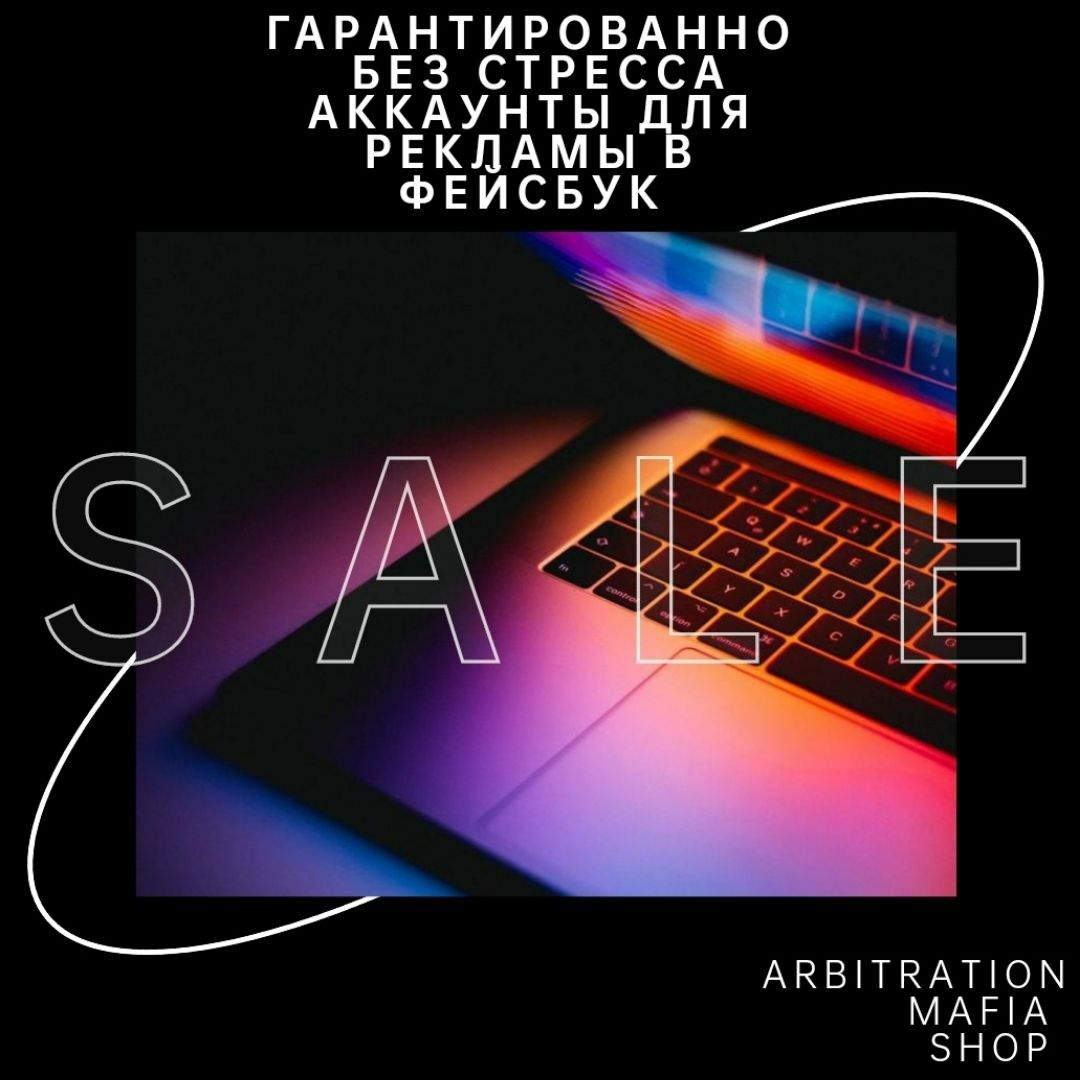
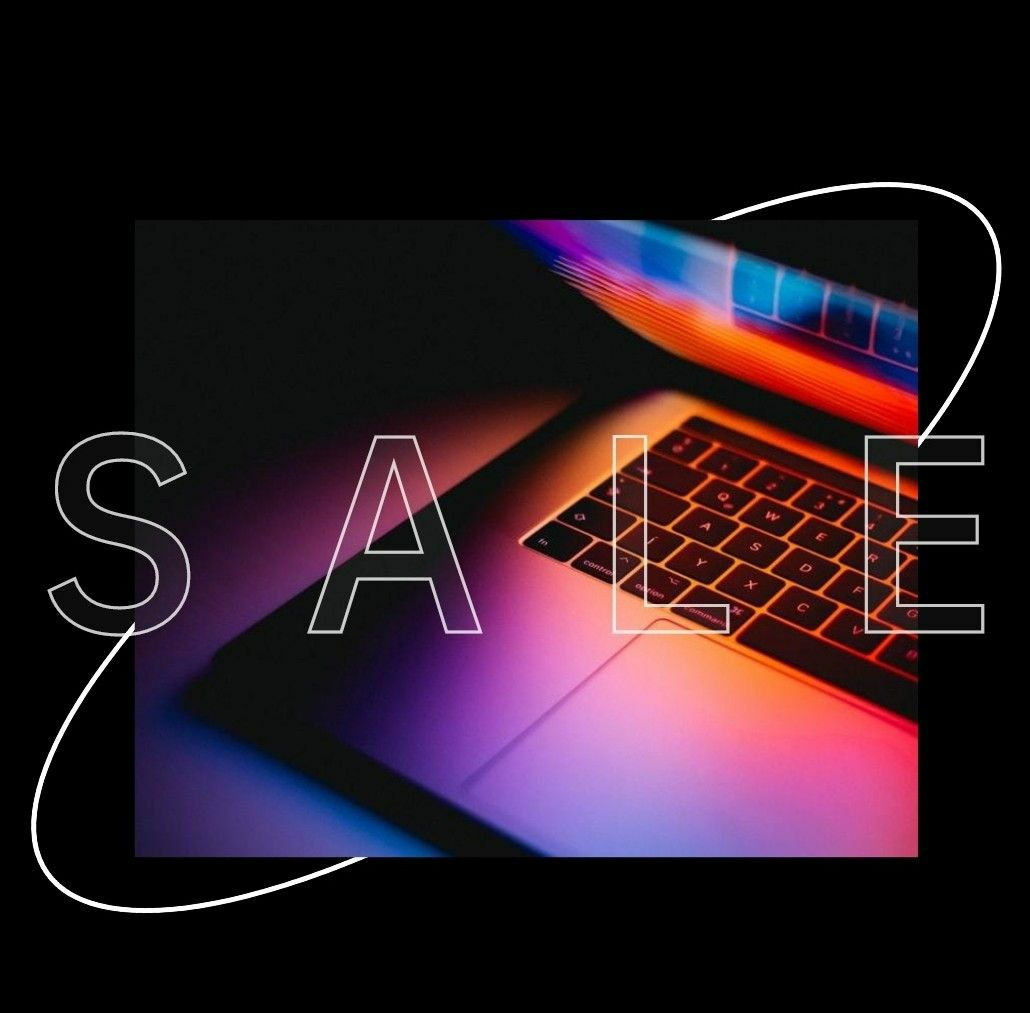
1

diff --git a/arbitrajmafia/style.css b/arbitrajmafia/style.css
@@ -1,17 +1,36 @@
+@import url('https://fonts.googleapis.com/css2?family=Montserrat:wght@100;200;300;400;500;600;700;800;900&display=swap');
+
 * {
     box-sizing: border-box;
     margin: 0;
     padding: 0;
 }
 
+body {
+    font-family: 'Montserrat', sans-serif;
+    background: #000;
+    color: #fff;
+}
+
 header {
     width: 100%;
     height: 100vh;
-    background-image: url('back.jpg');
-    background-position: center;
-    background-size: cover;
-    background-repeat: no-repeat;
+
+
+
     
+}
+
+.main-text p {
+    padding-top: 10px;
+    font-weight: bold;
+    text-align: center;
+    font-size: 20px;
+}
+
+.main-photo img{
+    width: 100%;
+    height: 70%;
 }
 
 a {
@@ -19,14 +38,13 @@ a {
     color: white;
 }
 
-.main {
+.main-btn {
     display: flex;
     justify-content: center;
-  
-    padding-top: 120%;
 }
 
-.btn a {
+.main-btn a {
+   padding-bottom: 10px;
     background: red;
     padding: 20px 50px;
 }

diff --git a/arbitrajmafia/index.html b/arbitrajmafia/index.html
@@ -8,11 +8,25 @@
     <title>Arbitrajmafia</title>
 </head>
 <body>
-    <header>
-        <div class="main">
-            <div class="btn">
-                <a href="http://T.me/am_seller" class="button">НАПИСАТЬ</a>
+    <header class="header">
+        <div class="main-text">
+            <p>
+                ГАРАНТИРОВАННО <br>
+                БЕЗ СТРЕССА <br>
+                АККАУНТЫ ДЛЯ <br>
+                РЕКЛАМЫ В  <br>
+                ФЕЙСБУК
+            </p>
+
+            <div class="main-photo">
+                <img src="back.jpg" alt="">
             </div>
+
+            <div class="main-btn">
+                <a href="#">НАПИСАТЬ</a>
+            </div>
+
+            <div class="main-txt"></div>
         </div>
     </header>
 </body>
